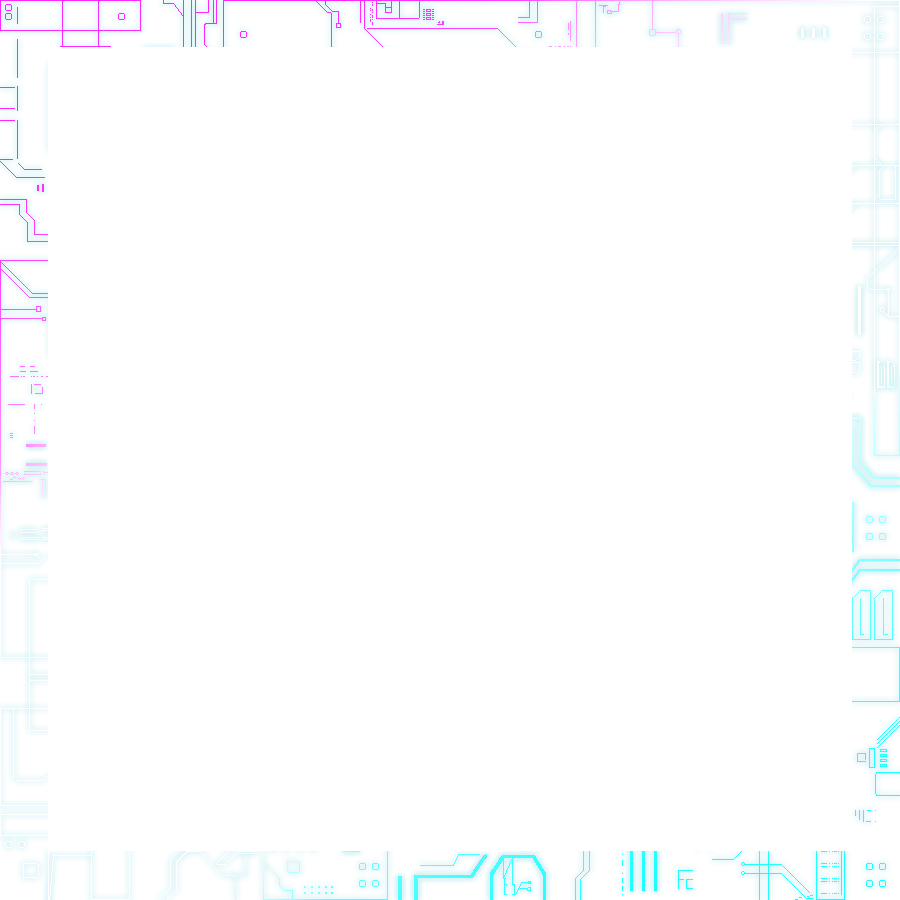
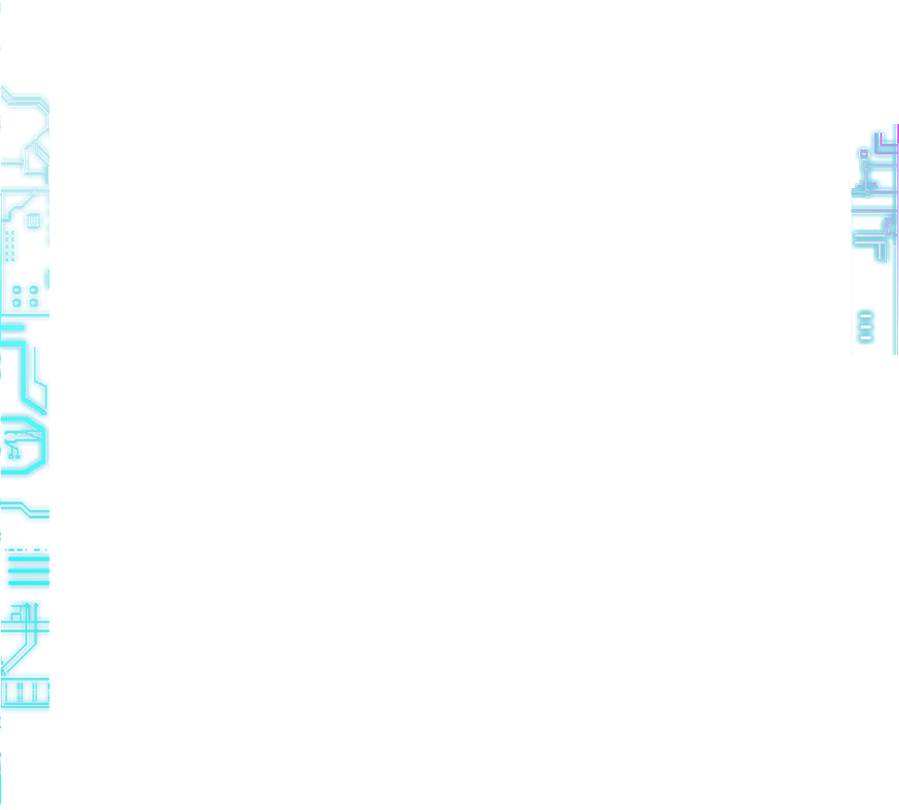
Resource edit, effect change

diff --git a/Engine/Stone.h b/Engine/Stone.h
@@ -122,7 +122,7 @@ public:
 		m_sprite->SetOrder(1);
 		m_sprite->SetActive(true);
 
-		m_placeEffect = make_unique<OneTimeEffect>(static_cast<float>(position.x) + size / 2, static_cast<float>(position.y) + size / 2, size - offset, size - offset, "cloud_pattern1_sheet.json");
+		m_placeEffect = make_unique<OneTimeEffect>(static_cast<float>(position.x) + size / 2, static_cast<float>(position.y) + size / 2, size - offset, size - offset, "sit_pattern2_sheet.json");
 		m_removePosition = XMVectorSet(-640.0f, 120.0f, 0.0f, 1.0f);
 	}
 };
@@ -145,7 +145,7 @@ public:
 		m_sprite->SetOrder(1);
 		m_sprite->SetActive(true);
 
-		m_placeEffect = make_unique<OneTimeEffect>(static_cast<float>(position.x) + size / 2, static_cast<float>(position.y) + size / 2, size - offset, size - offset, "cloud_pattern1_sheet.json");
+		m_placeEffect = make_unique<OneTimeEffect>(static_cast<float>(position.x) + size / 2, static_cast<float>(position.y) + size / 2, size - offset, size - offset, "sit_pattern2_sheet.json");
 		m_removePosition = XMVectorSet(-800.0f, 120.0f, 0.0f, 1.0f);
 
 		SoundManager::GetInstance().PlaySoundOnce("stonePlace.wav"); // 흑돌 착수 사운드 재생

diff --git a/GameFrameWork/BoardObject.h b/GameFrameWork/BoardObject.h
@@ -228,11 +228,10 @@ inline void BoardObject::ThemeFixedObjects(int theme, vector<unique_ptr<Object>>
 
 	case 5: // Cyberpunk
 		objectsvector.emplace_back(make_unique<NewObject>(0.0f, 600.0f, 1920.0f, 195.0f, 0.0f, "cyber_1.png", 100.0f, XMVectorSet(0.0f, 460.0f, 0.0f, 1.0f)));
-		objectsvector.emplace_back(make_unique<NewObject>(0.0f, -600.0f, 1918.0f, 429.0f, 0.0f, "cyber_2.png", 100.0f, XMVectorSet(0.0f, -335.0f, 0.0f, 1.0f)));
+		objectsvector.emplace_back(make_unique<NewObject>(0.0f, -600.0f, 1914.0f, 440.0f, 0.0f, "cyber_2.png", 100.0f, XMVectorSet(0.0f, -335.0f, 0.0f, 1.0f)));
 		break;
 
 	default:
-		
 		break;
 	}
 }

diff --git a/GameFrameWork/GameScene.cpp b/GameFrameWork/GameScene.cpp
@@ -201,7 +201,7 @@ void GameScene::SetUIButton()
 	exitText->GetComponent<BitmapRender3D>()->SetShaderType("UIHolo");
 	m_useless.emplace_back(move(exitText));
 
-	unique_ptr<Button> cyberAlpha = std::make_unique<Button>(0.0f, 0.0f, 900, 900, "CyberAlpha.png");
+	unique_ptr<Button> cyberAlpha = std::make_unique<Button>(0.0f, 0.0f, 900, 810, "CyberAlpha.png");
 	m_notUniqueObjectList.emplace_back(cyberAlpha.get());
 	cyberAlpha->GetComponent<BitmapRender3D>()->SetShaderType("Holo");
 	cyberAlpha->GetComponent<BitmapRender3D>()->SetActive(false);
